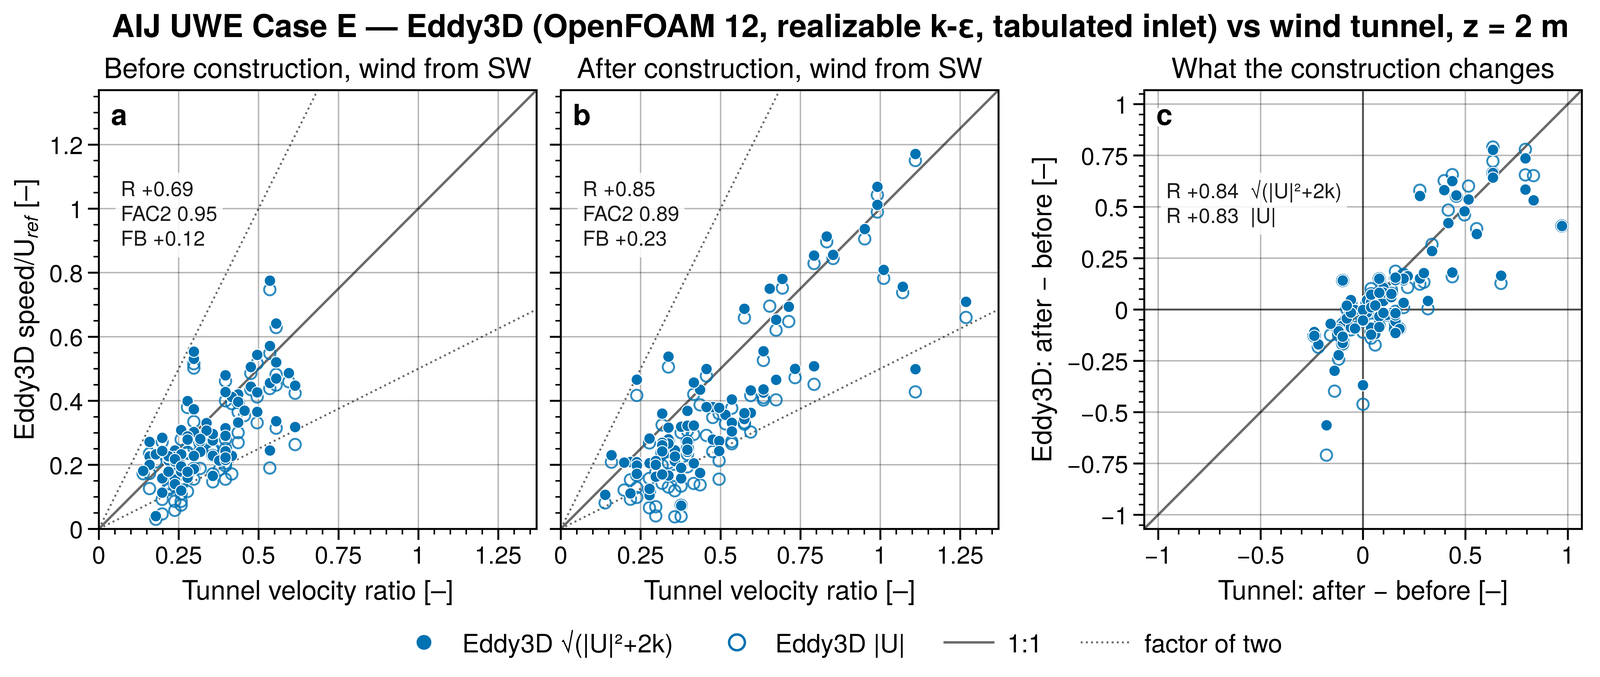
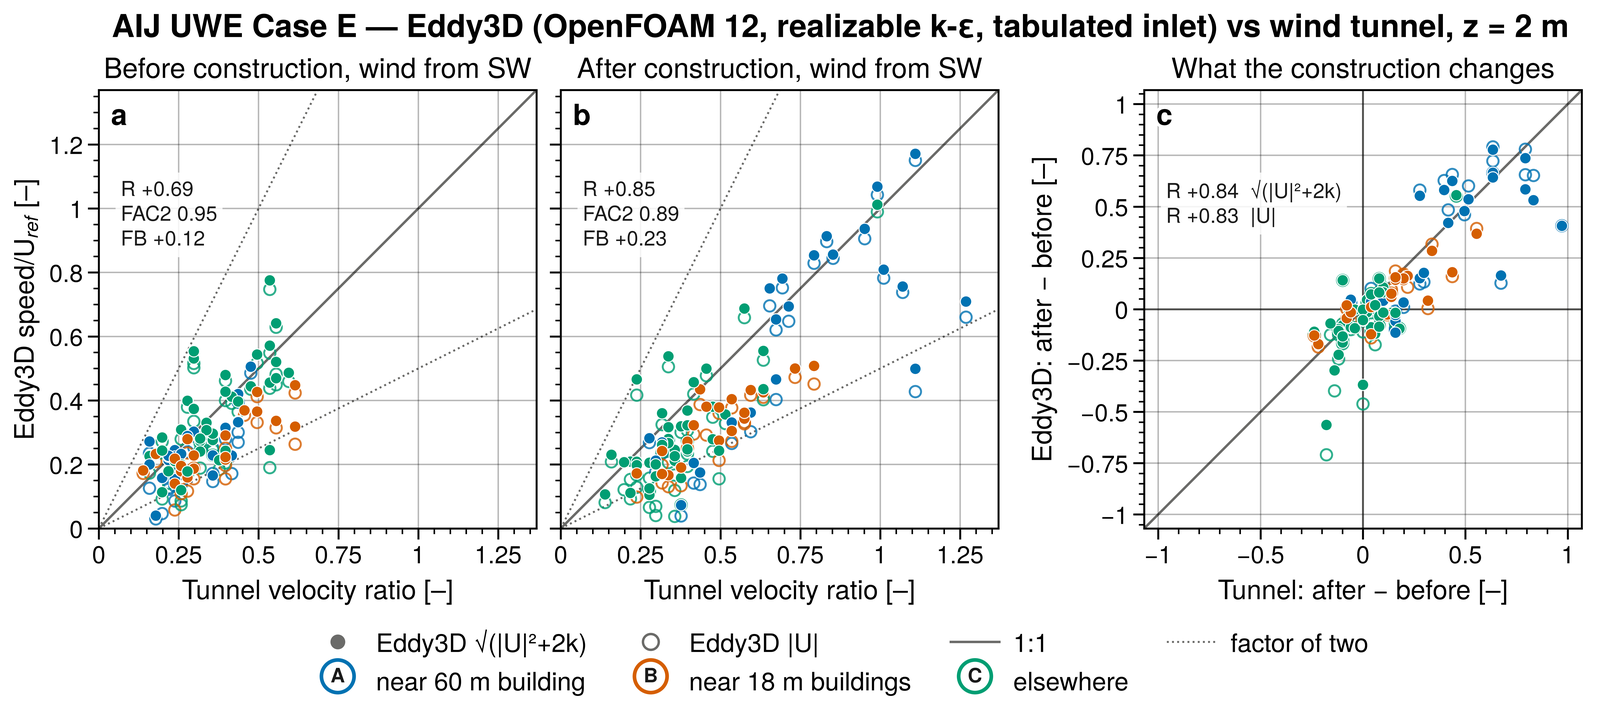
Register the district layout figures and show them beside the agreement figures
Run figure lists, captions (written by layout.caption from the same groups), FIGURE_HOME, the pages of Cases C, D, E and
F and M and the README get the five layout figures; the web copies, figures.json and the generated validation.json files
follow from the build.

Changed region(s): [[0.0, 0.031, 1.0, 0.9926], [0.25, 0.4653, 0.3125, 0.5273]]

diff --git a/scripts/build_api.py b/scripts/build_api.py
@@ -270,7 +270,7 @@ RUNS = [
           f"Eddy3D fixture TestAijCase{c}ContainerE2E; figures validation/plot_cases_ab_openfoam.py",
           f"case{c}_openfoam12_realizableKE_pairs.csv", PAIRS_AB) for c in ("A", "B")],
     *[run("C", "openfoam12-realizableKE", cb, f"caseC_openfoam12_realizableKE_{cb}.json", _FOAM_C,
-          ["case-c-openfoam-agreement.png", "case-c-openfoam-bias-map.png"],
+          ["case-c-layout.png", "case-c-openfoam-agreement.png", "case-c-openfoam-bias-map.png"],
           f"Eddy3D fixture TestAijCaseC{cb}ContainerE2E; figures validation/plot_case_c_openfoam.py",
           "caseC_openfoam12_realizableKE_pairs.csv",
           "config (0D/1D/2D), wind_direction_deg, point_id; x, y, z in m (case frame); measured_over_UH, the thermistor "
@@ -302,7 +302,7 @@ RUNS = [
          "WD 22.5°, rotation sense mirrored (control)": "vs.22.5.mirrored.corrected",
          "WD 45°, thermistor Vs · √(|U|²+2k)": "vs.45.corrected", "WD 45°, thermistor Vs · |U|": "vs.45.uncorrected",
          "WD 45°, rotation sense mirrored (control)": "vs.45.mirrored.corrected"},
-        ["case-d-openfoam-agreement.png"],
+        ["case-d-layout.png", "case-d-openfoam-agreement.png"],
         "Eddy3D fixture TestAijCaseDContainerE2E (EDDY3D_AIJD_HEADINGS=0,22.5,45); figure "
         "validation/plot_case_d_openfoam.py", "caseD_openfoam12_realizableKE_pairs.csv",
         "instrument (thermistor / split_fibre), wind_direction_deg, point_id; x, y, z in m (model frame); "
@@ -312,7 +312,7 @@ RUNS = [
     run("E", "openfoam12-realizableKE", "SW", "caseE_openfoam12_realizableKE.json",
         {"before, √(|U|²+2k)": "vr.bc.SW.rms", "before, |U|": "vr.bc.SW.Umag", "after, √(|U|²+2k)": "vr.ac.SW.rms",
          "after, |U|": "vr.ac.SW.Umag", "no-construction ceiling control": "noConstruction.SW"},
-        ["case-e-openfoam-agreement.png", "case-e-openfoam-bias-map.png"],
+        ["case-e-layout.png", "case-e-openfoam-agreement.png", "case-e-openfoam-bias-map.png"],
         "Eddy3D fixture TestAijCaseEContainerE2E (EDDY3D_AIJ_E_DIRECTIONS=SW, tabulated inlet); figures "
         "validation/plot_case_e_openfoam.py", "caseE_openfoam12_realizableKE_pairs.csv",
         "config (bc before / ac after construction), wind_direction, point_id; x, y, z in full-scale m (+x east, +y north); "
@@ -609,11 +609,11 @@ def _m_notes(sp):
 
 
 RUNS += [
-    *[run("F", "openfoam12-realizableKE", frame, f"caseF_openfoam12_realizableKE_{frame}.json", _F_HEADLINE, ["case-f-openfoam-agreement.png", "case-f-openfoam-bias-map.png"],
+    *[run("F", "openfoam12-realizableKE", frame, f"caseF_openfoam12_realizableKE_{frame}.json", _F_HEADLINE, ["case-f-layout.png", "case-f-openfoam-agreement.png", "case-f-openfoam-bias-map.png"],
           _FM_REPRO.format(fixture="Eddy3DCli.Tests/Validation/TestAijCaseFContainerE2E (EDDY3D_AIJ_F_DIRECTIONS=NNW, the default)", what=f"Shinjuku district, 1:800, wind from NNW, frame {frame}",
                            iterations="2000", cells="2,143,488"),
           "caseF_openfoam12_realizableKE_pairs.csv", PAIRS_F, normalisation=_F_NORM, notes=_f_notes(frame)) for frame in ("literal", "agl")],
-    *[run("M", "openfoam12-realizableKE", sp, f"caseM_openfoam12_realizableKE_{sp}.json", _M_HEADLINE, ["case-m-openfoam-agreement.png", "case-m-openfoam-plan.png"],
+    *[run("M", "openfoam12-realizableKE", sp, f"caseM_openfoam12_realizableKE_{sp}.json", _M_HEADLINE, ["case-m-layout.png", "case-m-openfoam-agreement.png", "case-m-openfoam-plan.png"],
           _FM_REPRO.format(fixture="Eddy3DCli.Tests/Validation/TestAijCaseMContainerE2E (WD 180, the default)", what=f"TPU Atsugi campus, 1:600, tunnel WD 180, turbulent Schmidt number {sct}",
                            iterations="3000", cells="1,394,053"),
           "caseM_openfoam12_realizableKE_pairs.csv", PAIRS_M, normalisation=_M_NORM.format(sct=sct), notes=_m_notes(sp)) for sp, sct in (("sct03", "0.3"), ("sct05", "0.5"), ("sct07", "0.7"))],
@@ -678,6 +678,8 @@ for _fig in ("cases-ab-openfoam-agreement.png", "cases-hi-openfoam-agreement.png
              "case-g-openfoam-sweep.png", "case-j-umf-agreement.png", "case-j-umf-tracer.png", "case-l-umf-agreement.png"):
     FIGURE_CAPTIONS[_fig] += " Dots take the colour of the line or plane they were measured on: the letters and colours of the layout figure of the case."
 FIGURE_CAPTIONS["case-g-openfoam-stations.png"] += " The letters A to G mark the seven lines of the layout figure."
+for _fig in ("case-c-openfoam-agreement.png", "case-d-openfoam-agreement.png", "case-e-openfoam-agreement.png", "case-f-openfoam-agreement.png", "case-m-openfoam-agreement.png"):
+    FIGURE_CAPTIONS[_fig] += " Dots take the colour of the group of points they belong to: the letters and colours of the layout figure of the case."
 
 METRIC_MEANING = {
     "Count": "number of measured points scored",
@@ -1924,6 +1926,11 @@ FIGURE_HOME = {
     "case-i-layout.png": ("/validation/cases-hi/", "Cases H and I (OpenFOAM)"),
     "case-j-layout.png": ("/validation/cases-jl/", "Cases J and L (UMF)"),
     "case-l-layout.png": ("/validation/cases-jl/", "Cases J and L (UMF)"),
+    "case-c-layout.png": ("/validation/case-c/", "Case C (OpenFOAM)"),
+    "case-d-layout.png": ("/validation/case-d/", "Case D (OpenFOAM)"),
+    "case-e-layout.png": ("/validation/case-e/", "Case E (OpenFOAM)"),
+    "case-f-layout.png": ("/validation/cases-fm/", "Cases F and M (OpenFOAM)"),
+    "case-m-layout.png": ("/validation/cases-fm/", "Cases F and M (OpenFOAM)"),
 }
 ALL_CASES_FIGURE_MIN = 3
 # A score table stays open up to this many rows, a table of configurations up to OPEN_LIST_ROWS; a longer one sits in

diff --git a/README.md b/README.md
@@ -244,7 +244,9 @@ the windward street's pedestrian speed over 0D (mean Vs 2.398 vs 1.172 m/s) whil
 3000 iterations per direction, the 120 probes at exactly the tunnel's coordinates. Scored against Vs/U_H as
 √(|U|² + 2k) (headline) and as |U|; hit rate D = 0.25, W = 0.05 U_H.
 
-<!--fig name="case-c-openfoam-agreement.png" alt="Case C, measured vs modelled, nine configurations" width="800"--><a href="validation/figures/case-c-openfoam-agreement.png"><img src="docs/assets/web/case-c-openfoam-agreement.png" width="800" height="798" loading="lazy" alt="Case C, measured vs modelled, nine configurations"></a><br><sub><a href="validation/figures/case-c-openfoam-agreement.png">1200 dpi original, 5.6 MB</a></sub><!--/fig-->
+<!--fig name="case-c-layout.png" alt="Case C, measurement points" width="800"--><a href="validation/figures/case-c-layout.png"><img src="docs/assets/web/case-c-layout.png" width="800" height="1157" loading="lazy" alt="Case C, measurement points"></a><br><sub><a href="validation/figures/case-c-layout.png">1200 dpi original, 1.6 MB</a></sub><!--/fig-->
+
+<!--fig name="case-c-openfoam-agreement.png" alt="Case C, measured vs modelled, nine configurations" width="800"--><a href="validation/figures/case-c-openfoam-agreement.png"><img src="docs/assets/web/case-c-openfoam-agreement.png" width="800" height="816" loading="lazy" alt="Case C, measured vs modelled, nine configurations"></a><br><sub><a href="validation/figures/case-c-openfoam-agreement.png">1200 dpi original, 5.9 MB</a></sub><!--/fig-->
 
 | centre block | WD | R | FAC2 | FB | hit rate | \|U\| alone: FB / R |
 |---|---|---|---|---|---|---|
@@ -343,7 +345,9 @@ agree.
 8 cores beside a production campaign. 3.6 million cells at 1:400 on a cylinder domain,
 3000 iterations; the last iteration's initial residuals are below 4 × 10⁻³.
 
-<!--fig name="case-d-openfoam-agreement.png" alt="Case D, measured vs modelled" width="800"--><a href="validation/figures/case-d-openfoam-agreement.png"><img src="docs/assets/web/case-d-openfoam-agreement.png" width="800" height="266" loading="lazy" alt="Case D, measured vs modelled"></a><br><sub><a href="validation/figures/case-d-openfoam-agreement.png">1200 dpi original, 2.6 MB</a></sub><!--/fig-->
+<!--fig name="case-d-layout.png" alt="Case D, measurement points" width="800"--><a href="validation/figures/case-d-layout.png"><img src="docs/assets/web/case-d-layout.png" width="800" height="1208" loading="lazy" alt="Case D, measurement points"></a><br><sub><a href="validation/figures/case-d-layout.png">1200 dpi original, 1.7 MB</a></sub><!--/fig-->
+
+<!--fig name="case-d-openfoam-agreement.png" alt="Case D, measured vs modelled" width="800"--><a href="validation/figures/case-d-openfoam-agreement.png"><img src="docs/assets/web/case-d-openfoam-agreement.png" width="800" height="279" loading="lazy" alt="Case D, measured vs modelled"></a><br><sub><a href="validation/figures/case-d-openfoam-agreement.png">1200 dpi original, 2.8 MB</a></sub><!--/fig-->
 
 | | n | FAC2 | FB | q | R |
 |---|---|---|---|---|---|
@@ -445,7 +449,9 @@ buildings), the workbook's measured profile imposed through a tabulated inlet th
 case (`wind.inlet: "manual"`), 2000 iterations. The model's speed is divided by its own solved U(15.9 m), which
 arrives at 0.998 of the imposed value in both states.
 
-<!--fig name="case-e-openfoam-agreement.png" alt="Case E, measured vs modelled, before, after and the change" width="800"--><a href="validation/figures/case-e-openfoam-agreement.png"><img src="docs/assets/web/case-e-openfoam-agreement.png" width="800" height="338" loading="lazy" alt="Case E, measured vs modelled, before, after and the change"></a><br><sub><a href="validation/figures/case-e-openfoam-agreement.png">1200 dpi original, 2.4 MB</a></sub><!--/fig-->
+<!--fig name="case-e-layout.png" alt="Case E, measurement points" width="800"--><a href="validation/figures/case-e-layout.png"><img src="docs/assets/web/case-e-layout.png" width="800" height="860" loading="lazy" alt="Case E, measurement points"></a><br><sub><a href="validation/figures/case-e-layout.png">1200 dpi original, 2.7 MB</a></sub><!--/fig-->
+
+<!--fig name="case-e-openfoam-agreement.png" alt="Case E, measured vs modelled, before, after and the change" width="800"--><a href="validation/figures/case-e-openfoam-agreement.png"><img src="docs/assets/web/case-e-openfoam-agreement.png" width="800" height="354" loading="lazy" alt="Case E, measured vs modelled, before, after and the change"></a><br><sub><a href="validation/figures/case-e-openfoam-agreement.png">1200 dpi original, 2.5 MB</a></sub><!--/fig-->
 
 | | FAC2 | FB | q | R |
 |---|---|---|---|---|
@@ -508,6 +514,8 @@ of the 863 pairs the tunnel resolves (|Δ| > 0.05). See *ML surrogate* under *Va
 | Tunnel's SSE column, the opposite wind (compass control) | +0.077 | 0.615 | +0.327 | +0.102 | 0.385 | +0.413 |
 
 The pattern follows the tunnel and the field in both frames and the level depends on the frame (FB +0.04 or +0.13 at the 9 m plane); the 20 m plane has the lowest R. The tunnel's own 9 m column scored as a model of the field gives R 0.933, FAC2 1.00 (the bar no model is expected to clear). The solved field correlates R 0.935 with the tunnel's NNW column and R 0.077 with its SSE column, which corroborates reading the direction labels as the direction the wind comes from, at this direction. The reading is on the site's [Cases F and M](https://sustainableurbansystems.com/CFD-Test-Cases-Architectural-Institute-of-Japan-AIJ/validation/cases-fm/) page.
+
+<!--fig name="case-f-layout.png" alt="Case F, measurement points" width="800"--><a href="validation/figures/case-f-layout.png"><img src="docs/assets/web/case-f-layout.png" width="800" height="818" loading="lazy" alt="Case F, measurement points"></a><br><sub><a href="validation/figures/case-f-layout.png">1200 dpi original, 5.5 MB</a></sub><!--/fig-->
 
 <!--fig name="case-f-openfoam-agreement.png" alt="Case F, measured vs modelled speed" width="800"--><a href="validation/figures/case-f-openfoam-agreement.png"><img src="docs/assets/web/case-f-openfoam-agreement.png" width="800" height="475" loading="lazy" alt="Case F, measured vs modelled speed"></a><br><sub><a href="validation/figures/case-f-openfoam-agreement.png">1200 dpi original, 3.2 MB</a></sub><!--/fig-->
 
@@ -758,7 +766,9 @@ U and θ follow the tunnel (the model beats the undisturbed approach column on R
 
 The tracer is under-predicted at every Schmidt number (the model's mean c\* is 0.12 to 0.18 against the tunnel's 1.00, its peak 1.27 to 1.38 against 3.04), and the points mirrored across the plume axis score R +0.65 to +0.68, better than the real points' +0.20 to +0.41: the modelled plume is displaced sideways against the tunnel's. The three points nearest the source carry c\* 2.52 in the tunnel and 0.26, 0.11 and 0.05 in the model (the ordering the fixture first asserted, now recorded: at Sct 0.7 the near points carry less than the two far ones, 0.055 against 0.087); the tunnel's own WD 175 and WD 185 reach FAC2 0.73 and 0.80 against its WD 180, the model 0.13 to 0.20. The mean streamwise velocity is low (U/U<sub>R</sub> 0.026 against 0.164) while the magnitude is close (|U| FB +0.19). The 18 field runs are recorded beside it and never asserted. The reading is on the site's [Cases F and M](https://sustainableurbansystems.com/CFD-Test-Cases-Architectural-Institute-of-Japan-AIJ/validation/cases-fm/) page.
 
-<!--fig name="case-m-openfoam-agreement.png" alt="Case M, measured vs modelled velocity and concentration" width="800"--><a href="validation/figures/case-m-openfoam-agreement.png"><img src="docs/assets/web/case-m-openfoam-agreement.png" width="800" height="422" loading="lazy" alt="Case M, measured vs modelled velocity and concentration"></a><br><sub><a href="validation/figures/case-m-openfoam-agreement.png">1200 dpi original, 2.9 MB</a></sub><!--/fig-->
+<!--fig name="case-m-layout.png" alt="Case M, measurement points" width="800"--><a href="validation/figures/case-m-layout.png"><img src="docs/assets/web/case-m-layout.png" width="800" height="982" loading="lazy" alt="Case M, measurement points"></a><br><sub><a href="validation/figures/case-m-layout.png">1200 dpi original, 2.5 MB</a></sub><!--/fig-->
+
+<!--fig name="case-m-openfoam-agreement.png" alt="Case M, measured vs modelled velocity and concentration" width="800"--><a href="validation/figures/case-m-openfoam-agreement.png"><img src="docs/assets/web/case-m-openfoam-agreement.png" width="800" height="434" loading="lazy" alt="Case M, measured vs modelled velocity and concentration"></a><br><sub><a href="validation/figures/case-m-openfoam-agreement.png">1200 dpi original, 3.0 MB</a></sub><!--/fig-->
 
 **Known issues.** 10 in the published files, listed on the [Known data issues](https://sustainableurbansystems.com/CFD-Test-Cases-Architectural-Institute-of-Japan-AIJ/known-data-issues/) page and in [`cases/M.json`](docs/api/cases/M.json).
 

diff --git a/docs/validation/cases-fm.md b/docs/validation/cases-fm.md
@@ -17,9 +17,11 @@ The reading of the OpenFOAM 12 runs on the Shinjuku sub-centre of Tokyo (Case F:
 - **Two vertical frames, neither asserted.** The readme says z is measured from the tunnel floor and the ground is z − 10 m, but the STL's own ground under all 13 points is 5 m. *Literal* probes the model at the published z in the STL's frame, which is 10, 14 and 25 m above the STL's ground for the three planes; *agl* probes the STL's ground plus 5, 9 and 20 m. The files do not say which one the tunnel meant, so both are scored and published side by side, as two runs of one engine (`configuration` literal and agl).
 - **Case M** is scored at WD 180 against the wind-tunnel run: U, V, W and k over the tunnel's U<sub>R</sub> = 4.08 m/s on the measurement and over the **solved** speed at the reference mast (4.686 m/s) on the model, because U<sub>R</sub> is defined at the mast. The concentration is the measured C/c₀ (c₀ = 132.5 ppm) against the model's c\* = c U<sub>R</sub> H<sub>R</sub>²/Q with the same solved U<sub>R</sub>, for the turbulent Schmidt numbers 0.3, 0.5 and 0.7: three passive tracers on one flow, **three runs** published side by side (`configuration` sct03, sct05, sct07); the flow scores are the same in all three. A concentration score has one detection limit of 10⁻³ of the largest measured value. The 18 field runs are recorded beside the tunnel and never asserted.
 
-## Case F: does the model agree?
+## Case F: where was it measured, and does the model agree?
 
-{% include figure.html name="case-f-openfoam-agreement.png" alt="Case F, measured vs modelled speed over U(500 m)" caption="<strong>Figure 1.</strong> Case F, wind from NNW: the tunnel's and the field's U/U(500 m) against the modelled √(|U|²+2k) (filled) and |U| (hollow), in the published-z frame (top) and the STL-ground frame (bottom). The bars are the standard deviation of the field's 10-minute means." %}
+{% include figure.html name="case-f-layout.png" alt="Measurement points, Case F" caption="<strong>Figure 1.</strong> Case F, measurement points: A tunnel plane 5 m above ground; B tunnel plane 9 m above ground; C tunnel plane 20 m above ground; D field cup anemometers, 3 to 11 m above ground. Positions in metres, full scale. SMB and KDD: the reference buildings. The field anemometers stand at the places of the tunnel points." %}
+
+{% include figure.html name="case-f-openfoam-agreement.png" alt="Case F, measured vs modelled speed over U(500 m)" caption="<strong>Figure 2.</strong> Case F, wind from NNW: the tunnel's and the field's U/U(500 m) against the modelled √(|U|²+2k) (filled) and |U| (hollow), in the published-z frame (top) and the STL-ground frame (bottom). The bars are the standard deviation of the field's 10-minute means. The dots take the colour of their group in Figure 1." %}
 
 The scalar-speed bracket, √(|U|² + 2k) over U(500 m):
 
@@ -73,11 +75,13 @@ FB is positive when the model is low. What the numbers say:
 - **The field is scored and not asserted.** R is 0.873 and 0.889 and FAC2 1.00 for √(|U|²+2k) (|U|: R 0.860 and 0.866, FB +0.13 and +0.27). The standard deviation of the 10-minute means behind a field value is 0.075 to 0.15 of U(500 m), 0.20 to 0.78 of the value itself, and a steady solve is one state for one direction while a field value averages a sector 22.5° wide over a year of strong winds. The tunnel's own 9 m column scored as a model of the field gives R 0.933, FAC2 1.00, FB −0.015: that, not 1, is what a model of the tunnel can be expected to reach, and the model's R against the field is 0.04 to 0.06 under it.
 - **The compass sense is corroborated at this direction.** The solved field correlates R 0.935 with the tunnel's 9 m column for the wind from NNW and R 0.077 with its column for the opposite wind, SSE (agl frame 0.945 and 0.102). A RANS solution knows no compass, so this supports the reading of the direction labels as the direction the wind comes from, which the cleaned release had marked unverified. The cleaned release's direction table now marks its NNW rows *corroborated by a solved field*; the other directions stay *unverified* until one is solved (clean/QUESTIONS.md QF9).
 
-{% include figure.html name="case-f-openfoam-bias-map.png" alt="Case F, where the model is slow or fast" caption="<strong>Figure 2.</strong> Case F, wind from NNW: log₂(model / tunnel) of √(|U|²+2k) at the 13 points of the 9 m plane on the plan of the district, in the two vertical frames; the arrow is the wind." %}
+{% include figure.html name="case-f-openfoam-bias-map.png" alt="Case F, where the model is slow or fast" caption="<strong>Figure 3.</strong> Case F, wind from NNW: log₂(model / tunnel) of √(|U|²+2k) at the 13 points of the 9 m plane on the plan of the district, in the two vertical frames; the arrow is the wind." %}
 
-## Case M: does the model agree?
+## Case M: where was it measured, and does the model agree?
 
-{% include figure.html name="case-m-openfoam-agreement.png" alt="Case M, measured vs modelled velocity, k and concentration" caption="<strong>Figure 3.</strong> Case M, WD 180: measured vs modelled U, V, W, k and c\* at three turbulent Schmidt numbers (log axes show the positive pairs within eight decades). The last panel is the tunnel's own WD 175 and WD 185 against its WD 180." %}
+{% include figure.html name="case-m-layout.png" alt="Measurement points, Case M" caption="<strong>Figure 4.</strong> Case M, measurement points: A near field, within 100 m of the release point; B mid field, 100 to 300 m from the release point; C far field, beyond 300 m. Positions in metres, full scale. Star: release point; R: reference point; dotted circles: 100 m and 300 m from the release point." %}
+
+{% include figure.html name="case-m-openfoam-agreement.png" alt="Case M, measured vs modelled velocity, k and concentration" caption="<strong>Figure 5.</strong> Case M, WD 180: measured vs modelled U, V, W, k and c\* at three turbulent Schmidt numbers (log axes show the positive pairs within eight decades). The last panel is the tunnel's own WD 175 and WD 185 against its WD 180. The dots take the colour of their group in Figure 4." %}
 
 | Quantity | R | FAC2 | FB | Hit rate | n |
 |---|---|---|---|---|---|
@@ -122,7 +126,7 @@ What the numbers say:
 - **The field campaign is recorded and not asserted.** The 10 of 18 runs within 10° of 180 at 3 m/s or more, each with its own U<sub>R</sub> and tracer flow, give a geometric-mean c\* at each point; the spread of the field at point 1 is a factor of 4.5. The model against that mean scores R 0.46, 0.29 and 0.22, FAC2 0.07 and FB +1.01 to +1.29, and lies inside the field's minimum–maximum range at 2 of the 15 points. The tunnel's WD 180 against the same mean scores R 0.98, FAC2 0.60 and FB −0.59: the tunnel is higher than the field's geometric mean at the same points (mean c\* 1.00 against 0.54).
 - **The velocity.** The magnitude of the velocity is close (|U| R 0.60, FAC2 0.73, FB +0.19, means 0.206 modelled against 0.247 measured) and the streamwise component is not: U R 0.71, FAC2 0.27, FB +1.46, the mean U/U<sub>R</sub> 0.026 modelled against 0.164 measured. V correlates (R 0.73; flipping its sign gives −0.73, so its sign agrees with the tunnel's) and W does not (R 0.18). k has R 0.45, FAC2 0.13 and FB +1.13 (mean k/U<sub>R</sub>² 0.008 against 0.029).
 
-{% include figure.html name="case-m-openfoam-plan.png" alt="Case M, the tracer on the plan of the campus" caption="<strong>Figure 4.</strong> Case M, WD 180: log₁₀ of c\* at the 15 points on the plan of the campus, the tunnel and the three Schmidt numbers on one scale (open: below 10⁻³ or zero). The star is the gas source and the square the reference mast; the arrow is the wind." %}
+{% include figure.html name="case-m-openfoam-plan.png" alt="Case M, the tracer on the plan of the campus" caption="<strong>Figure 6.</strong> Case M, WD 180: log₁₀ of c\* at the 15 points on the plan of the campus, the tunnel and the three Schmidt numbers on one scale (open: below 10⁻³ or zero). The star is the gas source and the square the reference mast; the arrow is the wind." %}
 
 ## What was not checked
 

diff --git a/docs/validation/case-e.md b/docs/validation/case-e.md
@@ -14,7 +14,13 @@ Before and after the construction of a 60 m tower and two 18 m blocks, each stat
 (about one million cells, 2 m at the buildings), the tunnel's own profile imposed as a table
 (`wind.inlet: "manual"`), the model's speed over its own solved U(15.9 m).
 
-{% include figure.html name="case-e-openfoam-agreement.png" alt="Case E, measured vs modelled, before, after and the change" caption="<strong>Figure 1.</strong> Case E, measured vs modelled, before, after and the change." %}
+## Where was it measured?
+
+{% include figure.html name="case-e-layout.png" alt="Measurement points, Case E" caption="<strong>Figure 1.</strong> Case E, measurement points: A within 30 m of the 60 m building; B within 30 m of the two 18 m buildings; C elsewhere. Positions in metres, full scale. Dark footprints: the three buildings added in the after state." %}
+
+## Does the model agree?
+
+{% include figure.html name="case-e-openfoam-agreement.png" alt="Case E, measured vs modelled, before, after and the change" caption="<strong>Figure 2.</strong> Case E, measured vs modelled, before, after and the change. The dots take the colour of their group in Figure 1." %}
 
 | | FAC2 | FB | q | R |
 |---|---|---|---|---|
@@ -24,7 +30,7 @@ Before and after the construction of a 60 m tower and two 18 m blocks, each stat
 | after · \|U\| | 0.74 | +0.34 | 0.30 | 0.84 |
 | ceiling control: the tunnel's *before*, scored as a model of its *after* | 0.79 | +0.37 | 0.35 | 0.10 |
 
-{% include figure.html name="case-e-openfoam-bias-map.png" alt="Case E, where the model is slow or fast" caption="<strong>Figure 2.</strong> Case E, where the model is slow or fast." %}
+{% include figure.html name="case-e-openfoam-bias-map.png" alt="Case E, where the model is slow or fast" caption="<strong>Figure 3.</strong> Case E, where the model is slow or fast." %}
 
 The construction change (after − before), in which inflow, closure and instrument biases largely cancel, has
 R = 0.84, the sign right at 75 % of the points where the tunnel resolved a change, and about 60 % of the measured

diff --git a/docs/validation/case-c.md b/docs/validation/case-c.md
@@ -14,7 +14,13 @@ All nine configurations (centre block 0D / 1D / 2D × WD 0°, 22.5°, 45°), sol
 the tunnel's turntable: the array turns with WD, the domain does not — ~310,000 cells per centre-block height,
 3000 iterations per direction, the 120 probes at exactly the tunnel's coordinates.
 
-{% include figure.html name="case-c-openfoam-agreement.png" alt="Case C, measured vs modelled" caption="<strong>Figure 1.</strong> Case C, measured vs modelled." %}
+## Where was it measured?
+
+{% include figure.html name="case-c-layout.png" alt="Measurement points, Case C" caption="<strong>Figure 1.</strong> Case C, measurement points: A street x < 0 beside the centre block; B street x > 0 beside the centre block; C street y > 0 beside the centre block; D street y < 0 beside the centre block; E crossings beyond the corners of the centre block. Positions in multiples of D. Centre block absent (0D), D or 2D high; wind directions 0°, 22.5° and 45°." %}
+
+## Does the model agree?
+
+{% include figure.html name="case-c-openfoam-agreement.png" alt="Case C, measured vs modelled" caption="<strong>Figure 2.</strong> Case C, measured vs modelled. The dots take the colour of their street in Figure 1." %}
 
 <details markdown="block">
   <summary>Scores for all nine configurations (R, FAC2, FB, hit rate; |U| alone)</summary>
@@ -33,7 +39,7 @@ the tunnel's turntable: the array turns with WD, the domain does not — ~310,00
 
 </details>
 
-{% include figure.html name="case-c-openfoam-bias-map.png" alt="Case C, where the model is slow or fast" caption="<strong>Figure 2.</strong> Case C, where the model is slow or fast." %}
+{% include figure.html name="case-c-openfoam-bias-map.png" alt="Case C, where the model is slow or fast" caption="<strong>Figure 3.</strong> Case C, where the model is slow or fast." %}
 
 - **The pattern is right in every configuration** — R 0.80–0.91, FAC2 0.85–0.98.
 - **The model is slow, worst at WD = 0** (FB +0.25 … +0.34, hit rate 0.43–0.57; at 22.5° and 45° FB +0.09 … +0.20,

diff --git a/docs/validation/case-d.md b/docs/validation/case-d.md
@@ -13,7 +13,13 @@ The reading of the OpenFOAM 12 runs on the high-rise among city blocks. Every sc
 All three headings: 3.6 million cells at 1:400 on a cylinder domain, 3000
 iterations, the 66 measured thermistor points and the 33 split-fibre points at z/H = 0.02.
 
-{% include figure.html name="case-d-openfoam-agreement.png" alt="Case D, measured vs modelled" caption="<strong>Figure 1.</strong> Case D, wind directions 0°, 22.5° and 45°: measured against modelled speed on the thermistor plane, and at the split-fibre points (0° only)." %}
+## Where was it measured?
+
+{% include figure.html name="case-d-layout.png" alt="Measurement points, Case D" caption="<strong>Figure 1.</strong> Case D, measurement points: A split-fibre probe, WD 0; B thermistor on the site of the central block, |x/H| ≤ 0.2; C thermistor in the streets along y beside it; D thermistor in the streets along x further out. Positions in multiples of H. The split fibre stands at 33 of the 78 places of the thermistors; open dots: the 12 places where the thermistor read nothing; wind directions 0°, 22.5° and 45°." %}
+
+## Does the model agree?
+
+{% include figure.html name="case-d-openfoam-agreement.png" alt="Case D, measured vs modelled" caption="<strong>Figure 2.</strong> Case D, wind directions 0°, 22.5° and 45°: measured against modelled speed on the thermistor plane, and at the split-fibre points (0° only). The dots take the colour of their group in Figure 1." %}
 
 <details markdown="block">
   <summary>Scores for all three headings and both instruments</summary>
